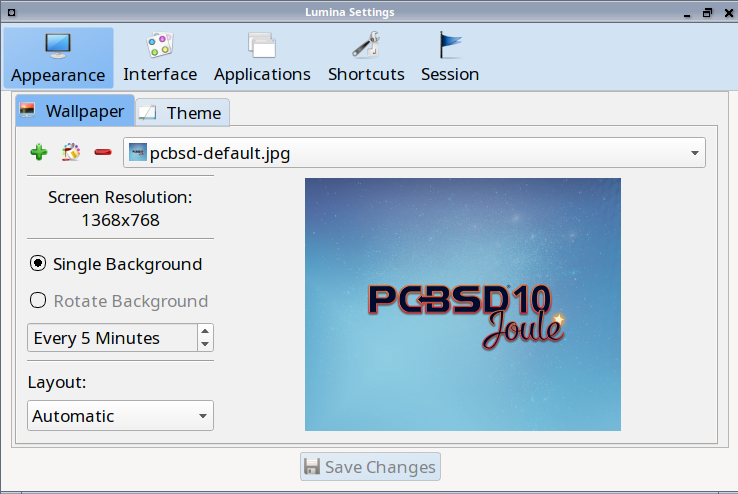
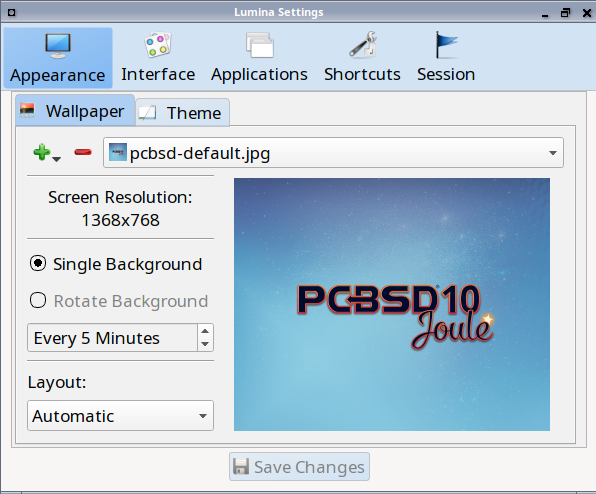
Final tweaks to 0.8.8 Guide.

diff --git a/lumina.rst b/lumina.rst
@@ -102,10 +102,11 @@ The remainder of the start menu contains the following:
 **Browse Files:** used to browse for files and directories using the :ref:`Insight File Manager`. One of the actions available in this file manager is the ability to add a file or directory
 to the list of Favorites. Simply select the file or directory and click the star icon in Insight.
 
-**Browse Applications:** click this entry to browse all the applications currently registered on the system. Applications are listed alphabetically by category. Click an application's
-name to start that application. If you right-click an application's name, you can "Pin to Desktop", "Add to Favorites", or "Add to Quicklaunch". If you are running PC-BSD® or another
-operating system that has a pre-defined application store, click "Manage Applications" at the top of the list of applications in order to open that application store. For example, on a
-PC-BSD® system, "Manage Applications" opens AppCafe®. Click the "Back" button to return to the start menu.
+**Browse Applications:** click this entry to browse all the applications currently registered on the system. Applications are listed alphabetically by category and the "Show Categories"
+button has three modes. Click "Show Categories" to toggle between showing just the category names (black box icon), just the contents of the categories (white box icon), or the categories
+and their contents (1/2 black 1/2 white icon). Click an application's name to start that application. If you right-click an application's name, you can "Pin to Desktop", "Add to Favorites",
+or "Add to Quicklaunch". If you are running PC-BSD® or another operating system that has a pre-defined application store, click "Manage Applications" at the top of the list of applications
+in order to open that application store. For example, on a PC-BSD® system, "Manage Applications" opens AppCafe®. Click the "Back" button to return to the start menu.
 
 **Control Panel:** if you are on PC-BSD®, or an operating system which provides a control panel, click this entry to open that operating system's control panel.
 
@@ -115,8 +116,8 @@ PC-BSD® system, "Manage Applications" opens AppCafe®. Click the "Back" button 
 
 * **Lumina Desktop Information:** click the "?" icon to determine the installed version of Lumina.
 
-* **System Volume:** use your mouse to move the volume control slider to change the system audio volume from 0% to 100%. If the operating system provides a mixer utility, click the speaker
-  icon to launch that mixer utility for advanced control of the audio system.
+* **System Volume:** use your mouse to move the volume control slider to change the system audio volume from 0% to 100%. Click the sound icon on the left to mute or unmute the speaker. If
+  the operating system provides a mixer utility, click the speaker icon on the right to launch that mixer utility for advanced control of the audio system.
 
 * **Screen Brightness:** use your mouse to move the brightness control slider from 10% to 100%.
 
@@ -208,15 +209,14 @@ Appearance
 ==========
 
 This tab is used to change the visual appearance and functionality of the desktop on a per-screen basis. The "Wallpaper" tab, shown in
-:numref:`Figure %s: Lumina Desktop Configuration <lumina3b>`, can be used to add a wallpaper ("+" button), create a color to use as a wallpaper (paint button), or remove ("-" button) a
-wallpaper. By default, when you click the "+" button, the Lumina backgrounds stored in :file:`/usr/local/share/wallpapers/Lumina-DE/` are displayed. Click the drop-down "Look In:" menu to
-select an alternate wallpaper location. If multiple images are selected, the "Rotate Background" button can be selected as well as a specified time interval in minutes to rotate to the next
-image. 
+:numref:`Figure %s: Lumina Desktop Configuration <lumina3b>`, can be used to add a wallpaper ("+" button) or remove ("-" button) a wallpaper. When you click the "+" button, the drop-down
+menu can be used to select the file(s), a single directory, a directory and all of its subdirectories, or a solid color to use as the wallpaper. If multiple images are selected, the "Rotate
+Background" button can be selected as well as a specified time interval in minutes to rotate to the next image. 
 
 Click the "Layout" drop-down menu to change the default layout of "Automatic" to one of the following options: "Tile", "Center", "Top Left", "Top Right", "Bottom Left", or "Bottom Right".
 
-The options that are available when you click the paint icon are shown in :numref:`Figure %s: Modifying the Wallpaper <lumina16a>`. If you select a color and click "OK", it will be added as a
-solid color background to the wallpaper selection drop-down menu.
+The options that are available when you click :menuselection:`+ --> Solid Color` are shown in :numref:`Figure %s: Modifying the Wallpaper <lumina16a>`. If you select a color and click "OK",
+it will be added as a solid color background to the wallpaper selection drop-down menu.
 
 .. _lumina16a:
 
